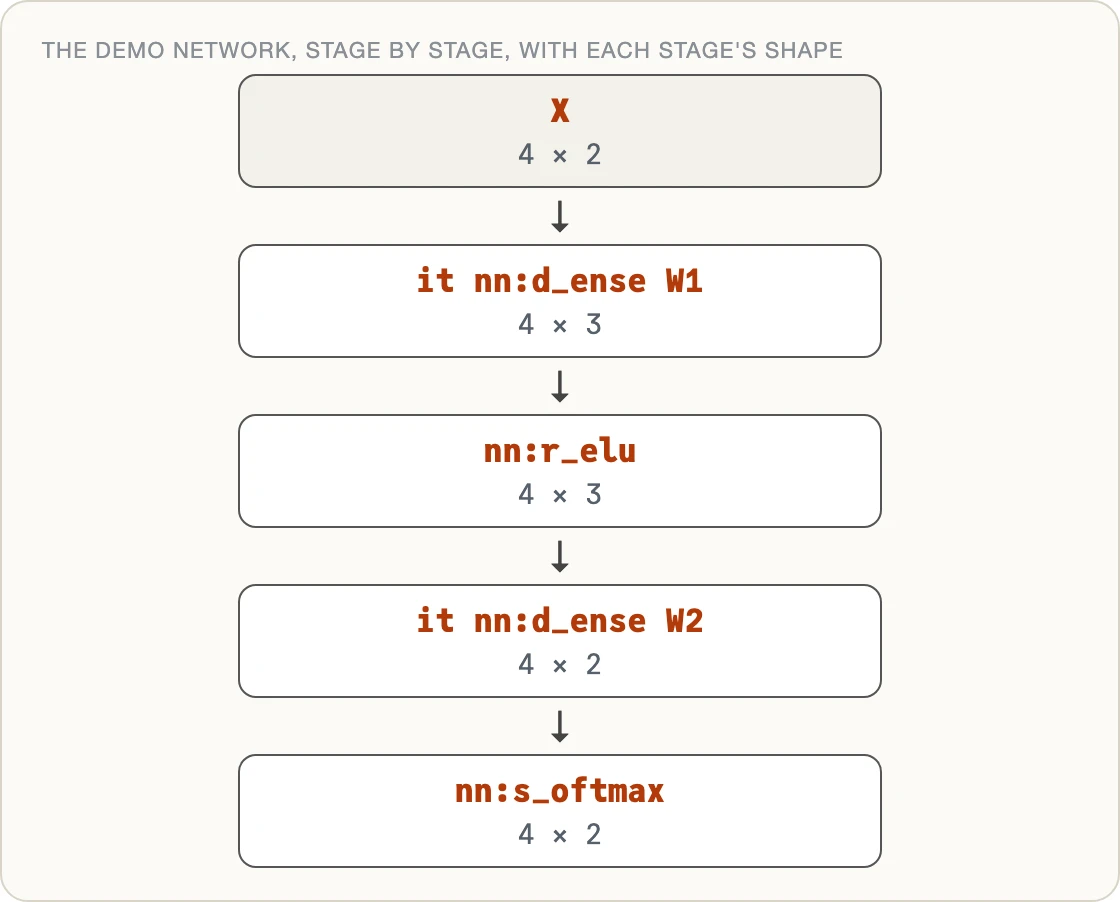
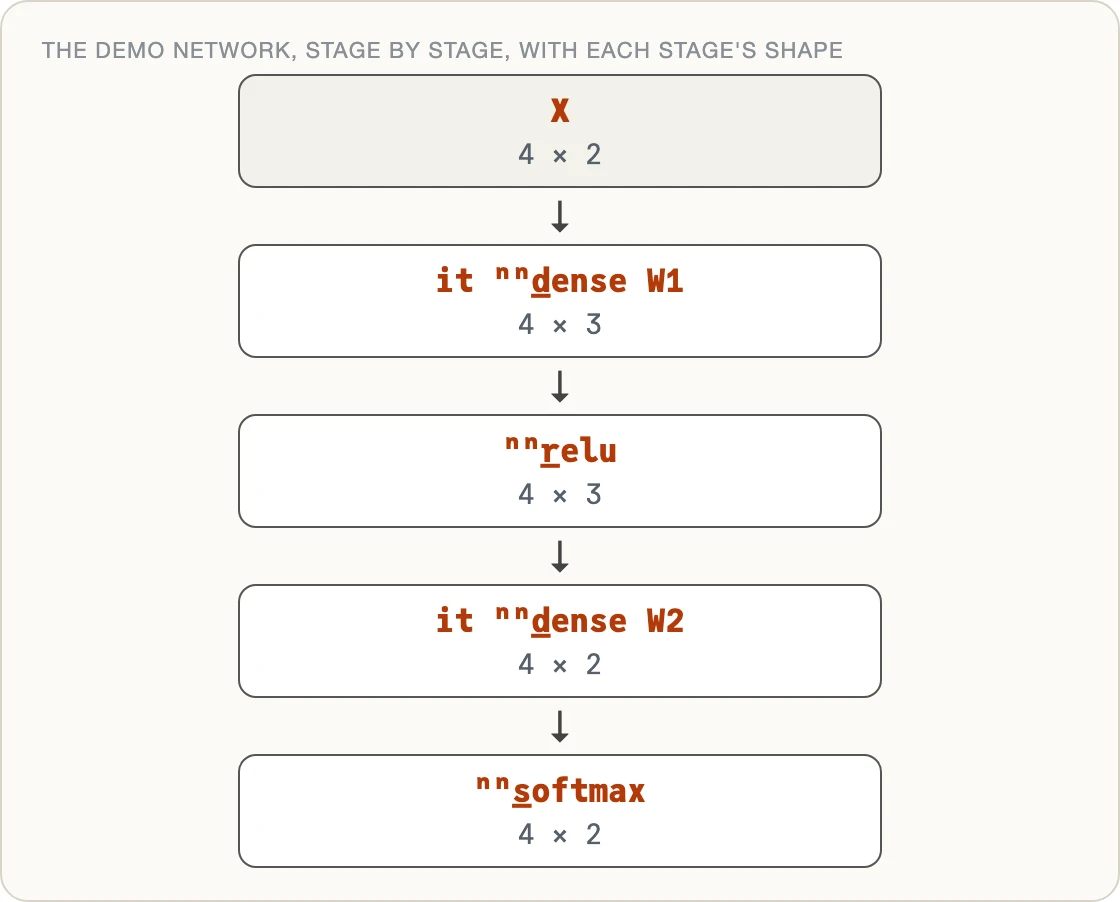
Array Languages #12, #14 drafts: pipeline stages rendered, not shown as typed

diff --git a/_drafts/array-languages-xetal-pipelines.md b/_drafts/array-languages-xetal-pipelines.md
@@ -68,10 +68,10 @@ The library is `Pipeline`, in X_eTaL-ML, beside the neural-network functions its
 "pipe:" u̲se< "Pipeline"
 Y ← @ ᵖⁱᵖᵉp̲ipe< r"
    X
-|> it nn:d_ense W1
-|> nn:r_elu
-|> it nn:d_ense W2
-|> nn:s_oftmax"
+|> it ⁿⁿd̲ense W1
+|> ⁿⁿr̲elu
+|> it ⁿⁿd̲ense W2
+|> ⁿⁿs̲oftmax"
 ```
 
 Read it the way it is written: start from the data `X`, apply the first dense layer, then a ReLU, then the second dense layer, then a softmax. The figure shows each stage and the shape it produces. By hand, in X_eTaL, the same network reads right to left, with the last step first:
@@ -90,8 +90,8 @@ The `r"..."` is a raw string, new in the language this week: its text is kept ex
 
 Stages are separated by `|>`, which means nothing else in X_eTaL. The first stage is the data. Every later stage is one of three things:
 
-- **A function,** applied to the previous value: `nn:r_elu`, a train, `'+ r_/`, or a quoted lambda.
-- **An expression that names the previous value `it`:** `it nn:d_ense W1`, `it - m`, `m - it`. Where order matters, it is written, never guessed.
+- **A function,** applied to the previous value: `ⁿⁿr̲elu`, a train, `'+ r̲/`, or a quoted lambda.
+- **An expression that names the previous value `it`:** `it ⁿⁿd̲ense W1`, `it − m`, `m − it`. Where order matters, it is written, never guessed.
 - **An expression of names bound earlier in the pipeline,** which is how a model branches and joins.
 
 A name after a colon, as in `x : m`, keeps a stage's value for later stages, and `x : (Q, K, V)` takes a tuple apart. A shape after the name, as in `x : h [4 3]`, is a promise the macro checks.
@@ -101,7 +101,7 @@ A name after a colon, as in `x : m`, keeps a stage's value for later stages, and
 The stable softmax subtracts the maximum before exponentiating, so large scores cannot overflow:
 
 ```text
-@ ᵖⁱᵖᵉp̲ipe< "z |> 'm_ax r_/ it : m |> e_xp z - m : e |> e / '+ r_/ e"
+@ ᵖⁱᵖᵉp̲ipe< "z |> 'm̲ax r̲/ it : m |> e̲xp z − m : e |> e ÷ '+ r̲/ e"
 ```
 
 Start from the scores `z`; take their maximum and call it `m`; raise e to `z - m` and call it `e`; divide `e` by its sum. Four stages, in the order the math is explained, and with `z := 1 2 3` the result is the library's own softmax, `0.0900 0.2447 0.6652`.
@@ -134,7 +134,7 @@ Each stage's value gets a name of its own, fresh from the language so it cannot 
 A residual connection is "double it, then add back the input". Written by hand in X_eTaL as `2 * x + x`, it reads right to left as `2 * (x + x)`, which is not a residual. As a pipeline it reads the way it is meant:
 
 ```text
-@ ᵖⁱᵖᵉp̲ipe< "x : s |> 2 * it |> it + s"
+@ ᵖⁱᵖᵉp̲ipe< "x : s |> 2 × it |> it + s"
 ```
 
 With `x := 1 2 3 4` it gives `3.0 6.0 9.0 12.0`.
@@ -144,7 +144,7 @@ With `x := 1 2 3 4` it gives `3.0 6.0 9.0 12.0`.
 A shape written after a name is a contract. Here the second stage promises a vector of length `n`, which is 3, and breaks it:
 
 ```text
-@ ᵖⁱᵖᵉp̲ipe< "x |> 2 * it : y [n] |> y + 1"
+@ ᵖⁱᵖᵉp̲ipe< "x |> 2 × it : y [n] |> y + 1"
 error[shape]: stage 2 (y): shape 4, expected 3
 ```
 
@@ -161,12 +161,12 @@ error[bad-pipeline]: a name is bound once in a pipeline: m
 error[bad-pipeline]: a stage is a function (nn:r_elu, [f_ g_], '{ x -> ... }) or an expression naming the previous value it (or a name bound before it): 3
 ```
 
-The library's tests go further than single cases. The five pipelines from the design, linear regression, the stable softmax, layer norm, a small MLP and the residual, must each equal their hand-written versions, written on one line and one stage per line. A differential test runs every kind of stage, in every order, against plain X_eTaL. And `pipe:t_ext<` writes back what the macro read, so a test can check that it read exactly what was written.
+The library's tests go further than single cases. The five pipelines from the design, linear regression, the stable softmax, layer norm, a small MLP and the residual, must each equal their hand-written versions, written on one line and one stage per line. A differential test runs every kind of stage, in every order, against plain X_eTaL. And `ᵖⁱᵖᵉt̲ext<` writes back what the macro read, so a test can check that it read exactly what was written.
 
 <div style="clear: both;"></div>
 
 ## What comes next
 
-Two steps follow in X_eTaL-ML. A bias helper, so a dense layer's bias is added along the right axis by name instead of reshaped by hand, as linear regression does today: `P + (s_hape P) r_eshape b`. Then the real models as pipelines, and one CNN layer shown four ways, side by side: as the equation of post #11, as a pipeline, as the expansion, and as plain X_eTaL. Because a pipeline is ordinary X_eTaL once expanded, it can go where any X_eTaL program goes, including the GPUs of [post #7](/2026/10/13/array-languages-xetal-gpu/) and [post #10](/2026/10/16/array-languages-xetal-mojo-metal/), and the step-by-step Blender videos of [post #9](/2026/10/15/array-languages-xetal-blender/).
+Two steps follow in X_eTaL-ML. A bias helper, so a dense layer's bias is added along the right axis by name instead of reshaped by hand, as linear regression does today: `P + (s̲hape P) r̲eshape b`. Then the real models as pipelines, and one CNN layer shown four ways, side by side: as the equation of post #11, as a pipeline, as the expansion, and as plain X_eTaL. Because a pipeline is ordinary X_eTaL once expanded, it can go where any X_eTaL program goes, including the GPUs of [post #7](/2026/10/13/array-languages-xetal-gpu/) and [post #10](/2026/10/16/array-languages-xetal-mojo-metal/), and the step-by-step Blender videos of [post #9](/2026/10/15/array-languages-xetal-blender/).
 
 </div>

diff --git a/_drafts/array-languages-xetal-typing-errors.md b/_drafts/array-languages-xetal-typing-errors.md
@@ -140,7 +140,7 @@ error[rank]: X[c,h+r] indexes 2 axes, but X has rank 3
 And a pipeline stage that promises a shape is checked against it:
 
 ```text
-@ ᵖⁱᵖᵉp̲ipe< "x |> 2 * it : y [n] |> y + 1"
+@ ᵖⁱᵖᵉp̲ipe< "x |> 2 × it : y [n] |> y + 1"
 error[shape]: stage 2 (y): shape 4, expected 3
 ```
 
@@ -166,7 +166,7 @@ It was fixed the same morning, in three layers. Every rule of the reader now use
 
 The fix covered one library. The class of bug, a reader that uses part of its text and drops the rest, can happen in any macro that reads a notation, and more of them are coming. Three changes go further, from narrow to broad:
 
-- **The pipeline macro was written to the rule from the start,** with a test for each kind of text it refuses, the equation library's three cases among them, and a macro, `pipe:t_ext<`, that writes back what it read.
+- **The pipeline macro was written to the rule from the start,** with a test for each kind of text it refuses, the equation library's three cases among them, and a macro, `ᵖⁱᵖᵉt̲ext<`, that writes back what it read.
 - **A parsing library for macro writers,** whose every piece uses all of its text or refuses, with the reprint check built in, so a new macro does not have to learn this lesson again. It has been written, and it is the subject of a planned post.
 - **A check in the language itself,** proposed and not yet decided: the macro runner would refuse any expansion that leaves part of an argument unused, in every macro, library or not. That would put this whole class of mistake on the top rung.
 
